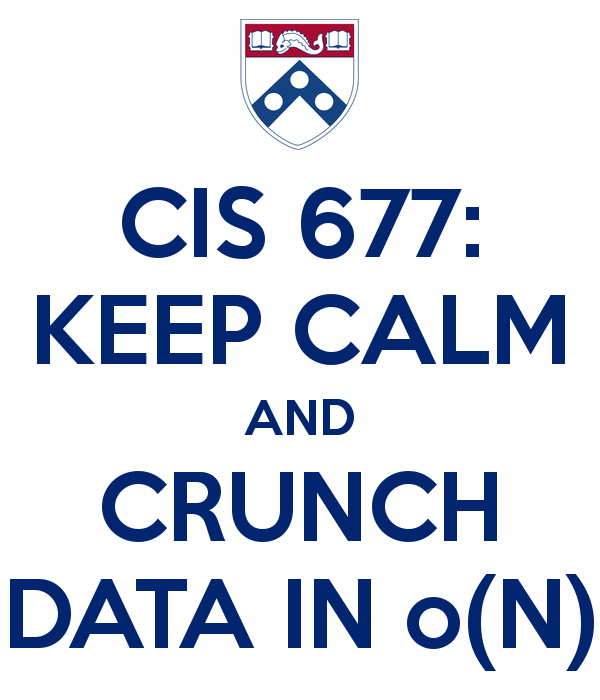
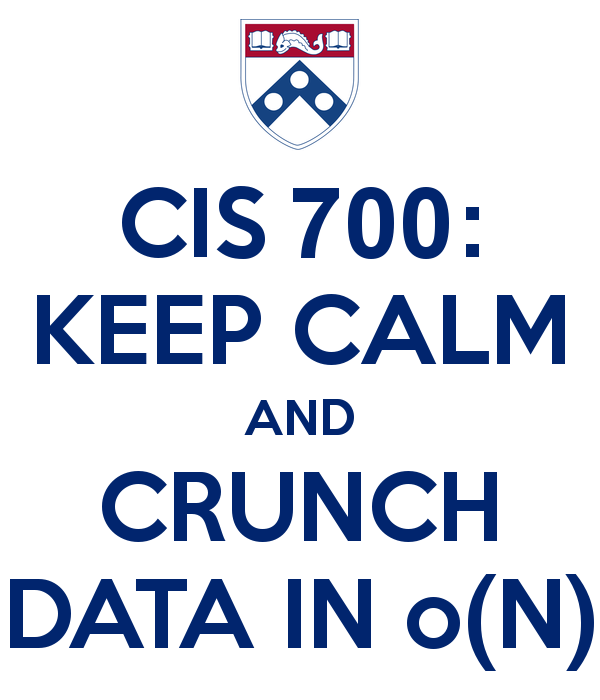
up

Changed region(s): [[0.48, 0.27, 0.78, 0.39]]

diff --git a/big-data-class.html b/big-data-class.html
@@ -5,7 +5,7 @@
 <meta property="og:image" content="http://grigory.us/class-logo-large.png">
 <meta property="og:image:type" content="image/png">
 
-<title>CIS 677: algorithms for Big Data</title>
+<title>CIS 700: algorithms for Big Data</title>
 
 <link href="css/bootstrap.css" rel="stylesheet">
 <link href="starter-template.css" rel="stylesheet"> 
@@ -73,7 +73,7 @@ return true;
 <br/>
 <br/>
 
-<h1 style="padding-top:0pt;margin-top:0pt;"><img src="pics/favicon.png" style="width:50pt"> <font color="brown">CIS 677: algorithms for Big Data</font>
+<h1 style="padding-top:0pt;margin-top:0pt;"><img src="pics/favicon.png" style="width:50pt"> <font color="brown">CIS 700: algorithms for Big Data</font>
 </h1>
 <!--
 <img src="img/dc-uba.jpg" width="160px">
@@ -98,12 +98,12 @@ return true;
 <ul class="fa-ul">
 	<li> <i class="fa-li fa fa-question"></i>  <b>What?</b> This class will give you a biased sample of techniques for scalable data anslysis. Target audience are students interested in algorithms, statistics, machine learning, data mining and related areas. 
 	<li> <i class="fa-li fa fa-question"></i>  <b>Who?</b> <b><a href="http://grigory.us">Grigory Yaroslavtsev</a></b>.
-	<li> <i class="fa-li fa fa-question"></i>  <b>When?</b> Spring 2015, Thursdays 9am &ndash; 12pm.
+	<li> <i class="fa-li fa fa-question"></i>  <b>When?</b> Fall 2015, TBD 
 	<li> <i class="fa-li fa fa-question"></i>  <b>Where?</b> TBA. 
 <li> <i class="fa-li fa fa-question"></i> <b>Office hours?</b> TBA.
 <li> <i class="fa-li fa fa-question"></i> <b>Prerequisites?</b> There are no formal prerequisites, but you should be familiar with the basics of algorithm design and analysis, discrete mathematics, probability and have general mathematical maturity.
-<li> <i class="fa-li fa fa-question"></i> <b>Poster design challenge?</b>
-See details <a href="#poster">below</a>.
+<!--<li> <i class="fa-li fa fa-question"></i> <b>Poster design challenge?</b>
+See details <a href="#poster">below</a>.-->
 <li> <i class="fa-li fa fa-question"></i><b>What's next?</b> Try some open problems: <a rel="nofollow" target="_blank" href="http://sublinear.info/index.php?title=Main_Page"><b>sublinear.info</b></a> 
 
 </ul>				     
@@ -159,7 +159,7 @@ The typical goal of algorithm design is to minimize the number of passes and spa
 Tentative outline:
 <ul class="fa-ul">
 	<li><i class="fa-li fa fa-group"></i> <b>Lecture 1.</b> 
-	Introduction. Probablity basics. Approximate counting, Morris's algorithm.
+	Introduction. Probablity basics. Approximate counting, Morris's algorithm. HyperLogLog.
 	<li><i class="fa-li fa fa-group"></i> <b>Lecture 2.</b> 
 	Approximating the median. AMS-sketching. Frequency moments via AMS. F<sub>2</sub>-moment via 4-wise independent hashing. Distinct elements.
 	<li><i class="fa-li fa fa-group"></i> <b>Lecture 3.</b> 
@@ -173,7 +173,6 @@ Tentative outline:
 <h3>Part 2: Algorithms for Numerical Linear Algebra and High-Dimensional Data</h3>
 <img src="pics/matrix.jpg"></a>
 This part will cover algoithms for large matrices and vectors. 
-
 </ul>
 Tentative outline:
 <ul class="fa-ul">
@@ -197,7 +196,7 @@ Tentative outline:
 
 <ul class="fa-ul">
 	<li><i class="fa-li fa fa-group"></i> <b>Lecture 8.</b>
-	Model for massively parallel computation. Frequency moments, connectivity, minimum spanning tree.
+	Model for massively parallel computation. Sorting. Frequency moments, connectivity, minimum spanning tree.
 	<li><i class="fa-li fa fa-group"></i> <b>Lecture 9.</b>
 	Algorithms for dense graphs via filtering. K-means||. Euclidean Minimum Spanning Tree.
 	
@@ -286,9 +285,9 @@ McGregor, Andrew: "Finding graph matchings in data streams." APPROX 2005.
 <!--In Approximation, Randomization and Combinatorial Optimization. Algorithms and Techniques, pp. 170-181. Springer Berlin Heidelberg, 2005.
 -->
 </ul>
-
+<!--
 <li> <a href=" "><i class="fa-li fa fa-file-pdf-o"></i></a> 
-
+-->
 
 <h3>Part 2: Algorithms for Numerical Linear Algebra and High-Dimensional Data</h3>
 <ul class="fa-ul">
@@ -334,7 +333,7 @@ Bahman Bahmani, Benjamin Moseley, Andrea Vattani, Ravi Kumar, Sergei Vassilvitsk
 
 
 
-
+<!--
 <a id="poster"><h1>Poster Challenge</h1></a>
 <p>
 Unleash your creativity and show us your love for big data and sublinear algorithms!
@@ -357,7 +356,7 @@ Guidelines for the poster design challenge:
 		<td><img src="pics/keep-calm6.png" width="150px" style="border:1px solid black"></td>
 	</tr>
 <table>
-
+	-->
 
 
 
